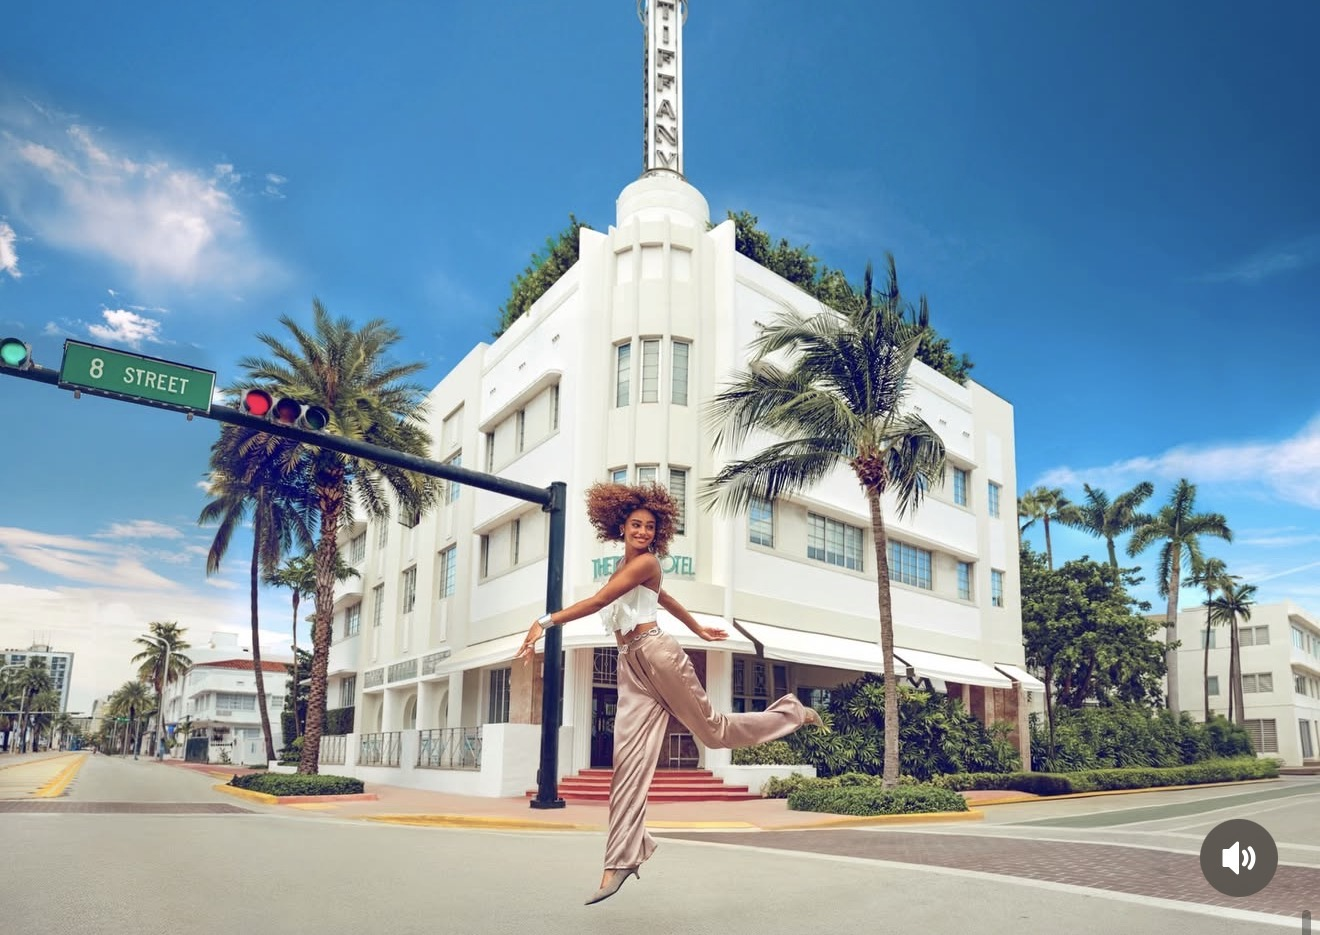
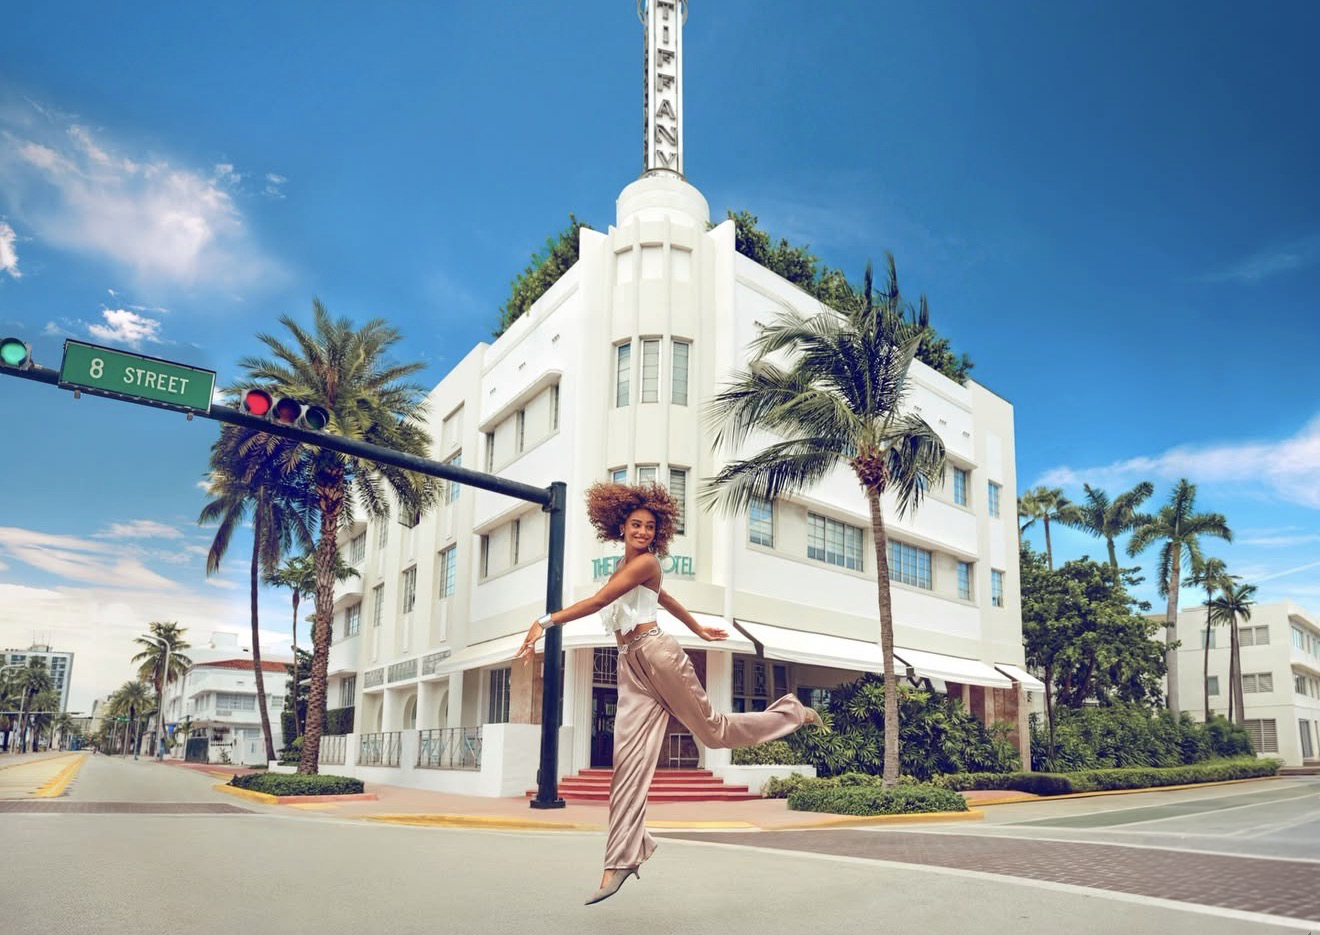
Update Sessions gallery — add new images, remove Artist box, fix harpers filename

Changed region(s): [[0.8697, 0.8064, 1.0, 1.0]]

diff --git a/index.html b/index.html
@@ -1377,28 +1377,37 @@
           <img src="uploads/work/nike_canada_02.jpg" alt="Nike Canada" />
         </div>
         <div class="sessions-card">
-          <img src="uploads/work/harpers cover.webp" alt="Harper's Bazaar Cover" />
+          <img src="uploads/work/harpers_cover_01.webp" alt="Harper's Bazaar" />
+        </div>
+        <div class="sessions-card">
+          <img src="uploads/work/harpers_cover_02.jpg" alt="Harper's Bazaar" />
         </div>
         <div class="sessions-card">
           <img src="uploads/work/pga tour.webp" alt="PGA Tour" />
         </div>
         <div class="sessions-card">
-          <img src="uploads/work/Rolling stone cover.webp" alt="Rolling Stone Cover" />
+          <img src="uploads/work/Rolling stone cover.webp" alt="Rolling Stone" />
         </div>
         <div class="sessions-card">
           <img src="uploads/work/rolling_stone_02.jpg" alt="Rolling Stone" />
         </div>
         <div class="sessions-card">
-          <img src="uploads/work/faddy cover.webp" alt="Faddy Cover" />
-        </div>
-        <div class="sessions-card">
-          <img src="uploads/work/Artist box.webp" alt="Artist Box" />
+          <img src="uploads/work/faddy cover.webp" alt="Faddy" />
         </div>
         <div class="sessions-card">
           <img src="uploads/work/art_deco_01.jpg" alt="Art Deco" />
         </div>
         <div class="sessions-card">
           <img src="uploads/work/art_deco_02.jpg" alt="Art Deco" />
+        </div>
+        <div class="sessions-card">
+          <img src="uploads/work/beauty_01.jpg" alt="Beauty" />
+        </div>
+        <div class="sessions-card">
+          <img src="uploads/work/beauty_02.jpg" alt="Beauty" />
+        </div>
+        <div class="sessions-card">
+          <img src="uploads/work/Spring_Fitness_Miami_Beach-EstudioFe_366.raf copia.JPG" alt="Spring Fitness — Miami Beach" />
         </div>
         <div class="sessions-card">
           <img src="uploads/work/Spring_Fitness_Miami_Beach-EstudioFe_397.raf copia.JPG" alt="Spring Fitness — Miami Beach" />